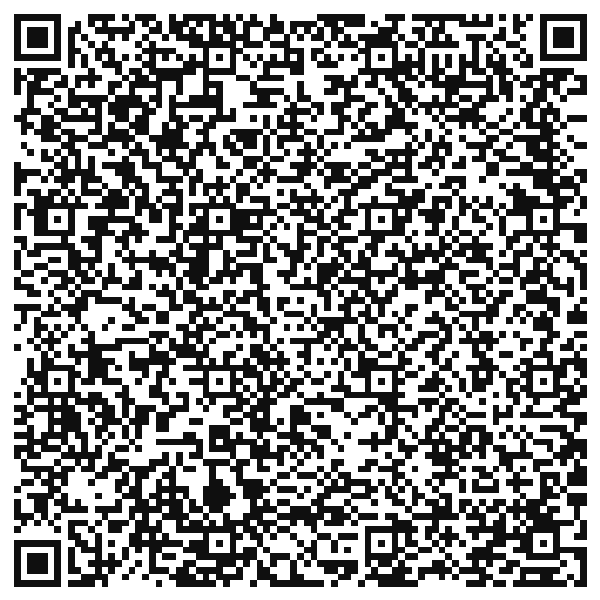
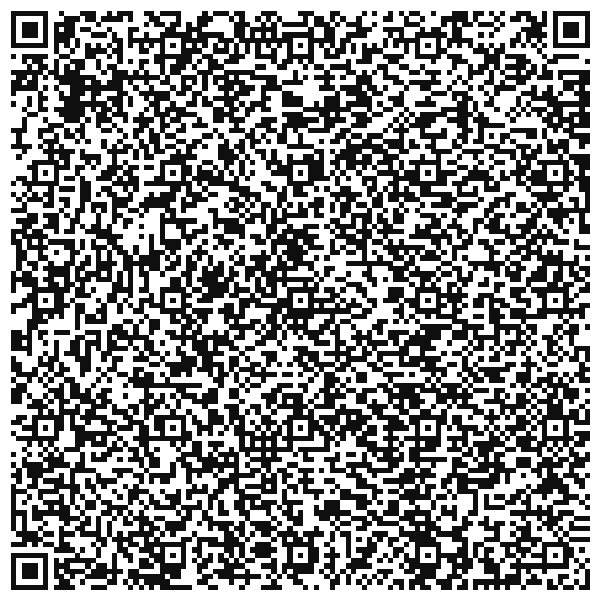
Meg: swap AppsFlyer link to Spencer's meg-the-creator campaign
New pid=meg-the-creator, c=meg-the-creator-2026-07, af_web_dp
goes to plain App Store (no more looping back to pixsort.app/meg).
Applied to all 5 URLs in meg/index.html + regenerated meg-qr.png.

diff --git a/meg/index.html b/meg/index.html
@@ -567,13 +567,13 @@
     <img src="../assets/pixsort-logo.jpeg" alt="PixSort">
     <span>PixSort</span>
   </a>
-  <a class="nav-cta" href="https://app.appsflyer.com/id6760485464?pid=meg&c=meg-2026-07&af_channel=influencer&af_adset=meg-landing&af_ad=meg-dashboard-link&af_siteid=meg&af_sub1=meg&af_sub2=meg-2026-07&af_sub3=pixsort-app-meg&deep_link_value=collab&deep_link_sub1=meg&deep_link_sub2=meg-2026-07&deep_link_sub3=pixsort-app-meg&af_dp=sortscout%3A%2F%2Fcollab%2Fmeg%3Futm_source%3Dmeg%26utm_medium%3Dinfluencer%26utm_campaign%3Dmeg-2026-07%26click_id%3Dpixsort-app-meg&af_ios_url=https%3A%2F%2Fapps.apple.com%2Fus%2Fapp%2Fpixsort-ai-photo-organizer%2Fid6760485464&af_web_dp=https%3A%2F%2Fpixsort.app%2Fmeg%2F&af_click_lookback=30d">Download Now</a>
+  <a class="nav-cta" href="https://app.appsflyer.com/id6760485464?pid=meg-the-creator&c=meg-the-creator-2026-07&af_channel=influencer&af_adset=meg-the-creator-landing&af_ad=meg-the-creator-public-link&af_siteid=meg-the-creator&af_sub1=meg-the-creator&af_sub2=meg-the-creator-2026-07&af_sub3=pixsort-app-meg-the-creator&deep_link_value=collab&deep_link_sub1=meg-the-creator&deep_link_sub2=meg-the-creator-2026-07&deep_link_sub3=pixsort-app-meg-the-creator&af_dp=sortscout%3A%2F%2Fcollab%2Fmeg-the-creator%3Futm_source%3Dmeg-the-creator%26utm_medium%3Dinfluencer%26utm_campaign%3Dmeg-the-creator-2026-07%26click_id%3Dpixsort-app-meg-the-creator&af_ios_url=https%3A%2F%2Fapps.apple.com%2Fus%2Fapp%2Fpixsort-ai-photo-organizer%2Fid6760485464&af_web_dp=https%3A%2F%2Fapps.apple.com%2Fus%2Fapp%2Fpixsort-ai-photo-organizer%2Fid6760485464&af_click_lookback=30d">Download Now</a>
 </nav>
 
 <!-- ── Hero ─────────────────────────────────────────── -->
 <section class="hero" id="top">
   <div class="hero-text">
-    <a class="appstore-pill" href="https://app.appsflyer.com/id6760485464?pid=meg&c=meg-2026-07&af_channel=influencer&af_adset=meg-landing&af_ad=meg-dashboard-link&af_siteid=meg&af_sub1=meg&af_sub2=meg-2026-07&af_sub3=pixsort-app-meg&deep_link_value=collab&deep_link_sub1=meg&deep_link_sub2=meg-2026-07&deep_link_sub3=pixsort-app-meg&af_dp=sortscout%3A%2F%2Fcollab%2Fmeg%3Futm_source%3Dmeg%26utm_medium%3Dinfluencer%26utm_campaign%3Dmeg-2026-07%26click_id%3Dpixsort-app-meg&af_ios_url=https%3A%2F%2Fapps.apple.com%2Fus%2Fapp%2Fpixsort-ai-photo-organizer%2Fid6760485464&af_web_dp=https%3A%2F%2Fpixsort.app%2Fmeg%2F&af_click_lookback=30d">
+    <a class="appstore-pill" href="https://app.appsflyer.com/id6760485464?pid=meg-the-creator&c=meg-the-creator-2026-07&af_channel=influencer&af_adset=meg-the-creator-landing&af_ad=meg-the-creator-public-link&af_siteid=meg-the-creator&af_sub1=meg-the-creator&af_sub2=meg-the-creator-2026-07&af_sub3=pixsort-app-meg-the-creator&deep_link_value=collab&deep_link_sub1=meg-the-creator&deep_link_sub2=meg-the-creator-2026-07&deep_link_sub3=pixsort-app-meg-the-creator&af_dp=sortscout%3A%2F%2Fcollab%2Fmeg-the-creator%3Futm_source%3Dmeg-the-creator%26utm_medium%3Dinfluencer%26utm_campaign%3Dmeg-the-creator-2026-07%26click_id%3Dpixsort-app-meg-the-creator&af_ios_url=https%3A%2F%2Fapps.apple.com%2Fus%2Fapp%2Fpixsort-ai-photo-organizer%2Fid6760485464&af_web_dp=https%3A%2F%2Fapps.apple.com%2Fus%2Fapp%2Fpixsort-ai-photo-organizer%2Fid6760485464&af_click_lookback=30d">
       <svg class="apple-glyph" viewBox="0 0 384 512" fill="currentColor"><path d="M318.7 268.7c-.2-36.7 16.4-64.4 50-84.8-18.8-26.9-47.2-41.7-84.7-44.6-35.5-2.8-74.3 20.7-88.5 20.7-15 0-49.4-19.7-76.4-19.7C63.3 141.2 4 184.8 4 273.5q0 39.3 14.4 81.2c12.8 36.7 59 126.7 107.2 125.2 25.2-.6 43-17.9 75.8-17.9 31.8 0 48.3 17.9 76.4 17.9 48.6-.7 90.4-82.5 102.6-119.3-65.2-30.7-61.7-90-61.7-91.9zm-56.6-164.2c27.3-32.4 24.8-61.9 24-72.5-24.1 1.4-52 16.4-67.9 34.9-17.5 19.8-27.8 44.3-25.6 71.9 26.1 2 49.9-11.4 69.5-34.3z"/></svg>
       Available on the App Store
     </a>
@@ -589,7 +589,7 @@
     <p class="hero-discount-line"><span>100 photos sorted, on us.</span></p>
 
     <div class="cta-block" id="hero-cta">
-      <a class="cta-download" href="https://app.appsflyer.com/id6760485464?pid=meg&c=meg-2026-07&af_channel=influencer&af_adset=meg-landing&af_ad=meg-dashboard-link&af_siteid=meg&af_sub1=meg&af_sub2=meg-2026-07&af_sub3=pixsort-app-meg&deep_link_value=collab&deep_link_sub1=meg&deep_link_sub2=meg-2026-07&deep_link_sub3=pixsort-app-meg&af_dp=sortscout%3A%2F%2Fcollab%2Fmeg%3Futm_source%3Dmeg%26utm_medium%3Dinfluencer%26utm_campaign%3Dmeg-2026-07%26click_id%3Dpixsort-app-meg&af_ios_url=https%3A%2F%2Fapps.apple.com%2Fus%2Fapp%2Fpixsort-ai-photo-organizer%2Fid6760485464&af_web_dp=https%3A%2F%2Fpixsort.app%2Fmeg%2F&af_click_lookback=30d">
+      <a class="cta-download" href="https://app.appsflyer.com/id6760485464?pid=meg-the-creator&c=meg-the-creator-2026-07&af_channel=influencer&af_adset=meg-the-creator-landing&af_ad=meg-the-creator-public-link&af_siteid=meg-the-creator&af_sub1=meg-the-creator&af_sub2=meg-the-creator-2026-07&af_sub3=pixsort-app-meg-the-creator&deep_link_value=collab&deep_link_sub1=meg-the-creator&deep_link_sub2=meg-the-creator-2026-07&deep_link_sub3=pixsort-app-meg-the-creator&af_dp=sortscout%3A%2F%2Fcollab%2Fmeg-the-creator%3Futm_source%3Dmeg-the-creator%26utm_medium%3Dinfluencer%26utm_campaign%3Dmeg-the-creator-2026-07%26click_id%3Dpixsort-app-meg-the-creator&af_ios_url=https%3A%2F%2Fapps.apple.com%2Fus%2Fapp%2Fpixsort-ai-photo-organizer%2Fid6760485464&af_web_dp=https%3A%2F%2Fapps.apple.com%2Fus%2Fapp%2Fpixsort-ai-photo-organizer%2Fid6760485464&af_click_lookback=30d">
         <svg viewBox="0 0 384 512" fill="currentColor" aria-hidden="true"><path d="M318.7 268.7c-.2-36.7 16.4-64.4 50-84.8-18.8-26.9-47.2-41.7-84.7-44.6-35.5-2.8-74.3 20.7-88.5 20.7-15 0-49.4-19.7-76.4-19.7C63.3 141.2 4 184.8 4 273.5q0 39.3 14.4 81.2c12.8 36.7 59 126.7 107.2 125.2 25.2-.6 43-17.9 75.8-17.9 31.8 0 48.3 17.9 76.4 17.9 48.6-.7 90.4-82.5 102.6-119.3-65.2-30.7-61.7-90-61.7-91.9zm-56.6-164.2c27.3-32.4 24.8-61.9 24-72.5-24.1 1.4-52 16.4-67.9 34.9-17.5 19.8-27.8 44.3-25.6 71.9 26.1 2 49.9-11.4 69.5-34.3z"/></svg>
         Download Now
       </a>
@@ -716,7 +716,7 @@
   <h2>Get PixSort.<br><em>On us.</em></h2>
   <p>100 photos sorted free, exclusive to Meg's audience.</p>
   <div class="cta-block" style="margin: 0 auto;">
-    <a class="cta-download" href="https://app.appsflyer.com/id6760485464?pid=meg&c=meg-2026-07&af_channel=influencer&af_adset=meg-landing&af_ad=meg-dashboard-link&af_siteid=meg&af_sub1=meg&af_sub2=meg-2026-07&af_sub3=pixsort-app-meg&deep_link_value=collab&deep_link_sub1=meg&deep_link_sub2=meg-2026-07&deep_link_sub3=pixsort-app-meg&af_dp=sortscout%3A%2F%2Fcollab%2Fmeg%3Futm_source%3Dmeg%26utm_medium%3Dinfluencer%26utm_campaign%3Dmeg-2026-07%26click_id%3Dpixsort-app-meg&af_ios_url=https%3A%2F%2Fapps.apple.com%2Fus%2Fapp%2Fpixsort-ai-photo-organizer%2Fid6760485464&af_web_dp=https%3A%2F%2Fpixsort.app%2Fmeg%2F&af_click_lookback=30d">
+    <a class="cta-download" href="https://app.appsflyer.com/id6760485464?pid=meg-the-creator&c=meg-the-creator-2026-07&af_channel=influencer&af_adset=meg-the-creator-landing&af_ad=meg-the-creator-public-link&af_siteid=meg-the-creator&af_sub1=meg-the-creator&af_sub2=meg-the-creator-2026-07&af_sub3=pixsort-app-meg-the-creator&deep_link_value=collab&deep_link_sub1=meg-the-creator&deep_link_sub2=meg-the-creator-2026-07&deep_link_sub3=pixsort-app-meg-the-creator&af_dp=sortscout%3A%2F%2Fcollab%2Fmeg-the-creator%3Futm_source%3Dmeg-the-creator%26utm_medium%3Dinfluencer%26utm_campaign%3Dmeg-the-creator-2026-07%26click_id%3Dpixsort-app-meg-the-creator&af_ios_url=https%3A%2F%2Fapps.apple.com%2Fus%2Fapp%2Fpixsort-ai-photo-organizer%2Fid6760485464&af_web_dp=https%3A%2F%2Fapps.apple.com%2Fus%2Fapp%2Fpixsort-ai-photo-organizer%2Fid6760485464&af_click_lookback=30d">
       <svg viewBox="0 0 384 512" fill="currentColor" aria-hidden="true"><path d="M318.7 268.7c-.2-36.7 16.4-64.4 50-84.8-18.8-26.9-47.2-41.7-84.7-44.6-35.5-2.8-74.3 20.7-88.5 20.7-15 0-49.4-19.7-76.4-19.7C63.3 141.2 4 184.8 4 273.5q0 39.3 14.4 81.2c12.8 36.7 59 126.7 107.2 125.2 25.2-.6 43-17.9 75.8-17.9 31.8 0 48.3 17.9 76.4 17.9 48.6-.7 90.4-82.5 102.6-119.3-65.2-30.7-61.7-90-61.7-91.9zm-56.6-164.2c27.3-32.4 24.8-61.9 24-72.5-24.1 1.4-52 16.4-67.9 34.9-17.5 19.8-27.8 44.3-25.6 71.9 26.1 2 49.9-11.4 69.5-34.3z"/></svg>
       Download Now
     </a>
@@ -1004,7 +1004,7 @@ mountPhone('phone-send',   <Phone dw={FEAT_DW} active="home"><Screen5/></Phone>)
 
 <!-- ── Interactions ──────────────────────────────────────── -->
 <script>
-const APP_STORE_URL = 'https://app.appsflyer.com/id6760485464?pid=meg&c=meg-2026-07&af_channel=influencer&af_adset=meg-landing&af_ad=meg-dashboard-link&af_siteid=meg&af_sub1=meg&af_sub2=meg-2026-07&af_sub3=pixsort-app-meg&deep_link_value=collab&deep_link_sub1=meg&deep_link_sub2=meg-2026-07&deep_link_sub3=pixsort-app-meg&af_dp=sortscout%3A%2F%2Fcollab%2Fmeg%3Futm_source%3Dmeg%26utm_medium%3Dinfluencer%26utm_campaign%3Dmeg-2026-07%26click_id%3Dpixsort-app-meg&af_ios_url=https%3A%2F%2Fapps.apple.com%2Fus%2Fapp%2Fpixsort-ai-photo-organizer%2Fid6760485464&af_web_dp=https%3A%2F%2Fpixsort.app%2Fmeg%2F&af_click_lookback=30d';
+const APP_STORE_URL = 'https://app.appsflyer.com/id6760485464?pid=meg-the-creator&c=meg-the-creator-2026-07&af_channel=influencer&af_adset=meg-the-creator-landing&af_ad=meg-the-creator-public-link&af_siteid=meg-the-creator&af_sub1=meg-the-creator&af_sub2=meg-the-creator-2026-07&af_sub3=pixsort-app-meg-the-creator&deep_link_value=collab&deep_link_sub1=meg-the-creator&deep_link_sub2=meg-the-creator-2026-07&deep_link_sub3=pixsort-app-meg-the-creator&af_dp=sortscout%3A%2F%2Fcollab%2Fmeg-the-creator%3Futm_source%3Dmeg-the-creator%26utm_medium%3Dinfluencer%26utm_campaign%3Dmeg-the-creator-2026-07%26click_id%3Dpixsort-app-meg-the-creator&af_ios_url=https%3A%2F%2Fapps.apple.com%2Fus%2Fapp%2Fpixsort-ai-photo-organizer%2Fid6760485464&af_web_dp=https%3A%2F%2Fapps.apple.com%2Fus%2Fapp%2Fpixsort-ai-photo-organizer%2Fid6760485464&af_click_lookback=30d';
 
 // Auto-resize walkthrough iframe to its content height
 (function() {
